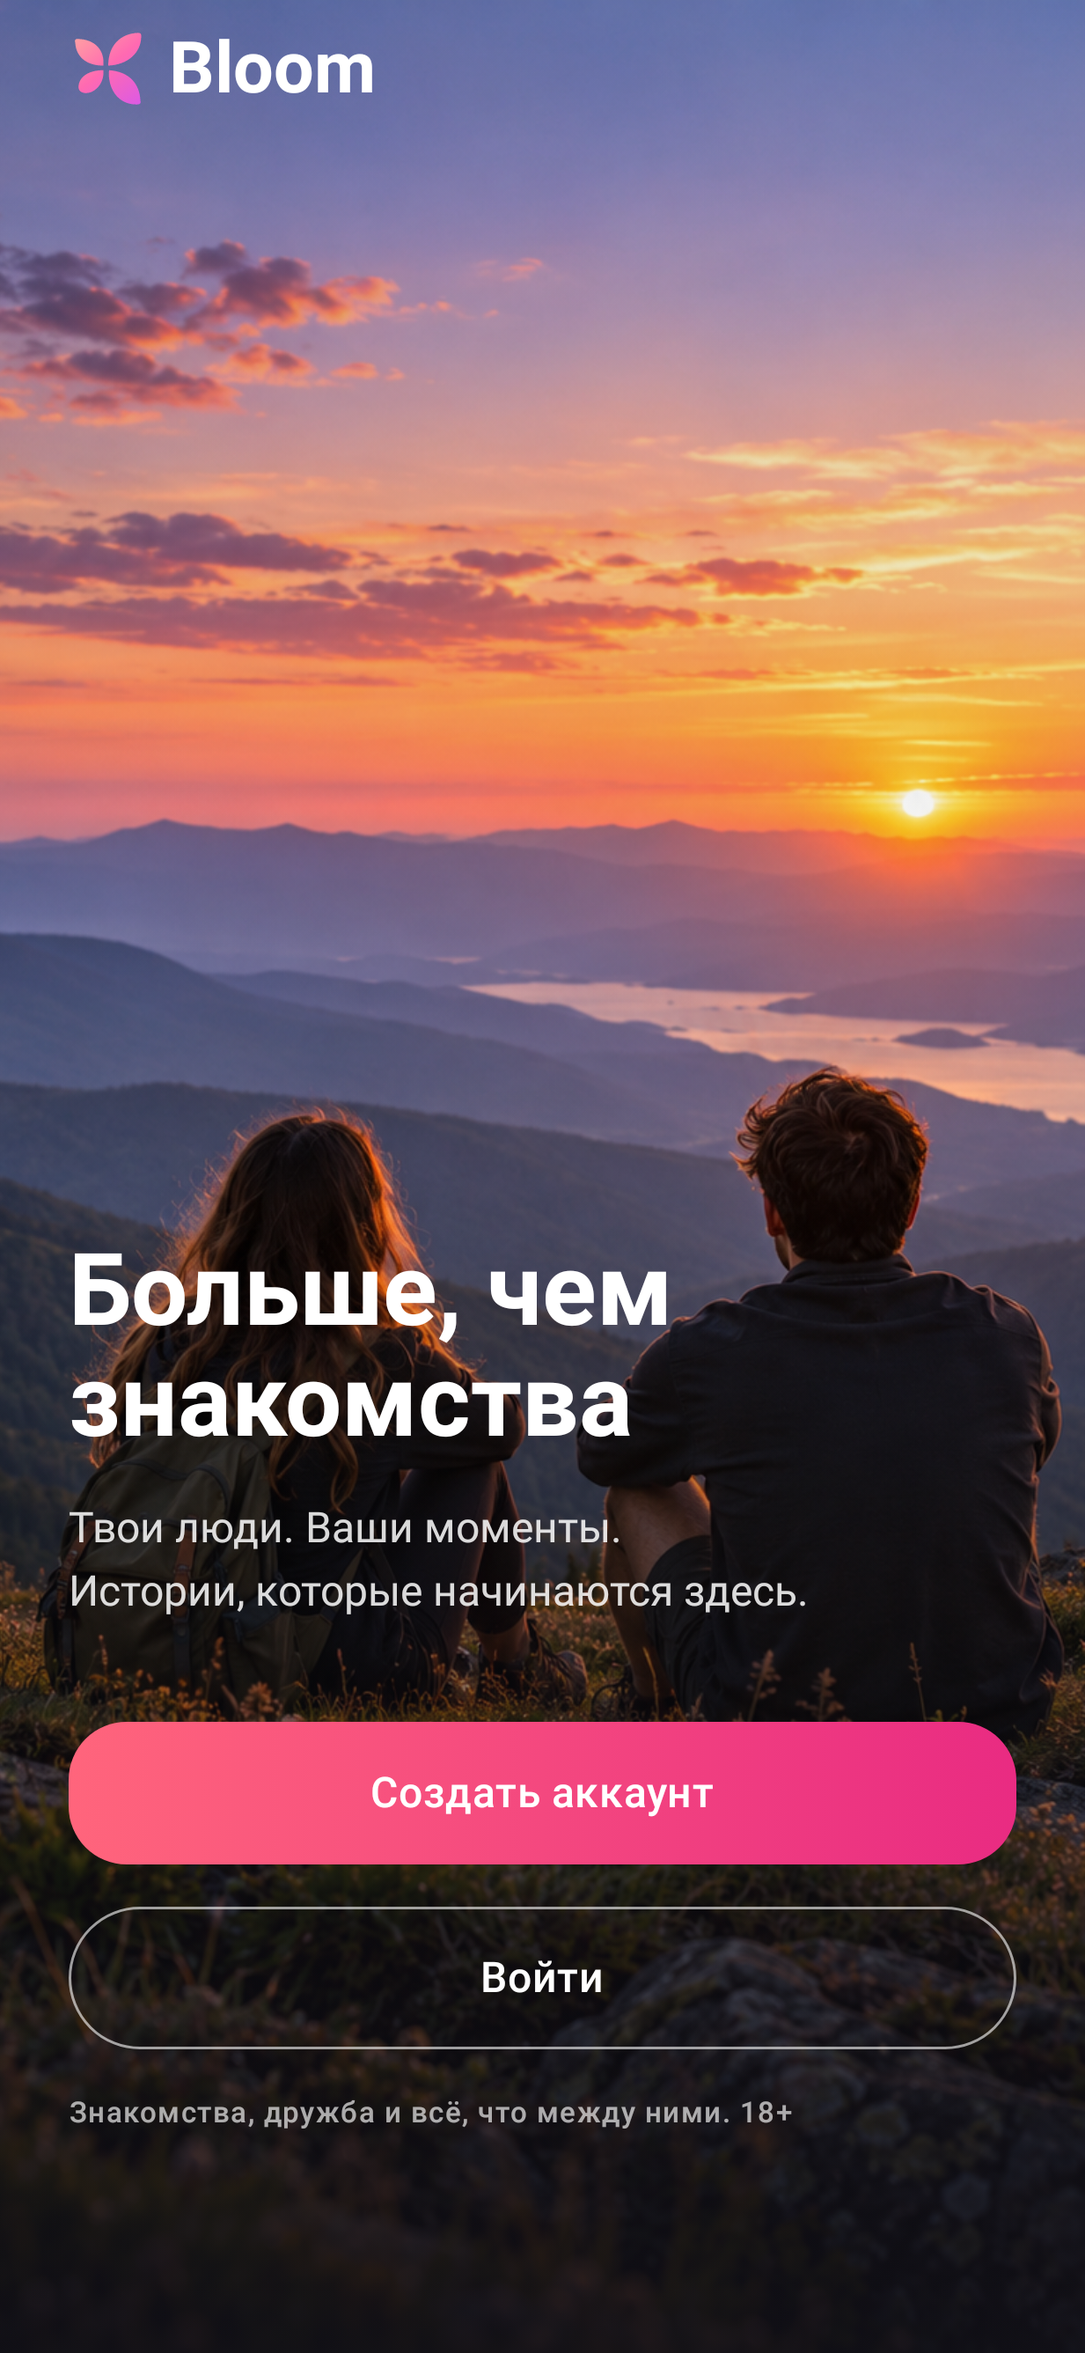
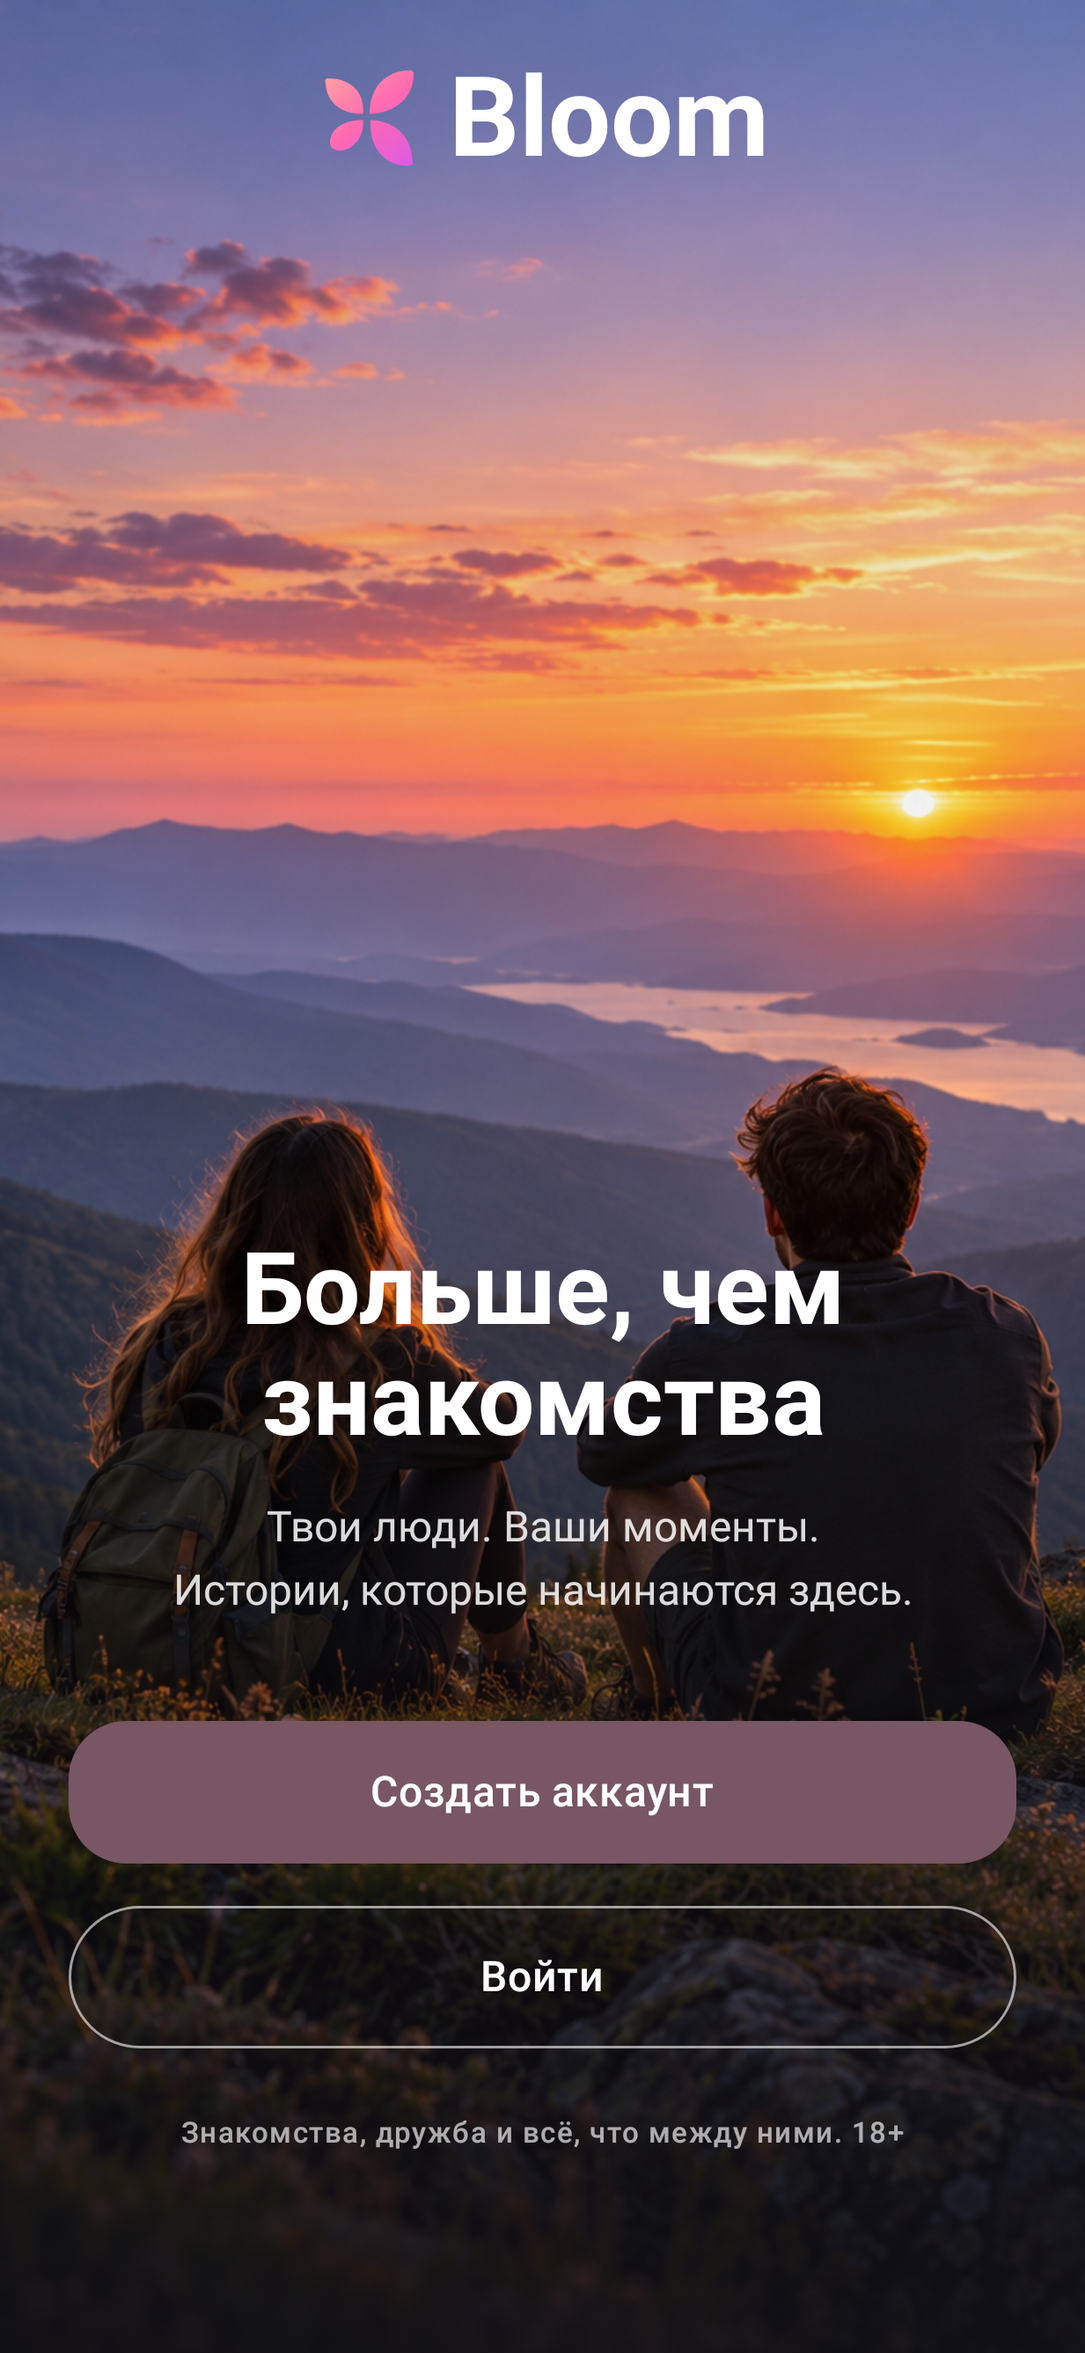
fix

diff --git a/server/chat/tools/test_client.html b/server/chat/tools/test_client.html
@@ -175,9 +175,11 @@
                 if (res.ok) {
                     const rooms = await res.json();
                     const list = document.getElementById("roomsList");
-                    list.innerHTML = "";
+                    list.replaceChildren();
                     if (!rooms || rooms.length === 0) {
-                        list.innerHTML = "<li>Нет чатов</li>";
+                        const empty = document.createElement("li");
+                        empty.textContent = "Нет чатов";
+                        list.appendChild(empty);
                         return;
                     }
                     rooms.forEach(room => {
@@ -201,7 +203,7 @@
             if (ws) { ws.close(); } 
             
             document.getElementById("chatTitle").innerText = `Чат с User (ID: ${otherUserId.substring(0,8)}...)`;
-            document.getElementById("chat").innerHTML = ""; 
+            document.getElementById("chat").replaceChildren();
             
             try {
                 // Подключаемся к вебсокету, передавая реальный токен!
@@ -282,7 +284,11 @@
                 previewDiv.innerText = "";
                 return;
             }
-            previewDiv.innerHTML = `Прикреплено файлов: <b>${uploadedFiles.length}</b>. <button onclick="clearAttachments()">Удалить всё</button>`;
+            previewDiv.textContent = `Прикреплено файлов: ${uploadedFiles.length}. `;
+            const clear = document.createElement("button");
+            clear.textContent = "Удалить всё";
+            clear.onclick = clearAttachments;
+            previewDiv.appendChild(clear);
         }
 
         function clearAttachments() {
@@ -305,22 +311,82 @@
             clearAttachments(); 
         }
 
+        function safeMediaUrl(value) {
+            if (typeof value !== "string") return null;
+            try {
+                const url = new URL(value, window.location.origin);
+                if (url.origin !== window.location.origin || !["http:", "https:"].includes(url.protocol)
+                    || url.username || url.password || url.search || url.hash
+                    || !/^\/api\/v1\/media\/[0-9a-f]{8}-[0-9a-f]{4}-[0-9a-f]{4}-[0-9a-f]{4}-[0-9a-f]{12}$/i.test(url.pathname)) return null;
+                return url.href;
+            } catch (_) { return null; }
+        }
+
+        async function downloadMedia(url, button) {
+            // Never navigate to unverified Media content: HTML/SVG may contain scripts.
+            const safeUrl = safeMediaUrl(url);
+            if (!safeUrl) return;
+            button.disabled = true;
+            try {
+                const response = await fetch(safeUrl, {
+                    headers: { Authorization: "Bearer " + accessToken },
+                    redirect: "error",
+                    credentials: "omit",
+                    signal: AbortSignal.timeout(30000)
+                });
+                if (!response.ok) throw new Error("Не удалось скачать файл");
+                const reader = response.body.getReader();
+                const chunks = [];
+                let size = 0;
+                try {
+                    while (true) {
+                        const { done, value } = await reader.read();
+                        if (done) break;
+                        size += value.byteLength;
+                        if (size > 10 * 1024 * 1024) throw new Error("Файл слишком большой");
+                        chunks.push(value);
+                    }
+                } finally { await reader.cancel(); }
+                const blob = new Blob(chunks, { type: "application/octet-stream" });
+                const blobUrl = URL.createObjectURL(blob);
+                const link = document.createElement("a");
+                link.href = blobUrl;
+                link.download = "bloom-attachment.bin";
+                document.body.appendChild(link);
+                link.click();
+                link.remove();
+                setTimeout(() => URL.revokeObjectURL(blobUrl), 60000);
+            } catch (_) {
+                alert("Не удалось скачать файл. Проверь доступ и подключение.");
+            } finally { button.disabled = false; }
+        }
+
         function printMsg(sender, text, className, attachments) {
             const chatDiv = document.getElementById("chat");
             const div = document.createElement("div");
-            div.className = "message " + className;
+            div.className = className === "system" ? "message system" : "message";
+            const author = document.createElement("b");
+            author.textContent = `${sender}: `;
+            div.appendChild(author);
+            div.appendChild(document.createTextNode(typeof text === "string" ? text : ""));
             
-            let htmlContent = `<b>${sender}:</b> ${text || ""}`;
-            
-            if (attachments && attachments.length > 0) {
-                htmlContent += `<br><br><b>Прикреплённые файлы:</b><ul style="margin: 5px 0; padding-left: 20px;">`;
-                attachments.forEach(url => {
-                    htmlContent += `<li><a href="${url}" target="_blank">Открыть медиа</a></li>`;
+            if (Array.isArray(attachments) && attachments.length > 0) {
+                const list = document.createElement("ul");
+                attachments.forEach(value => {
+                    const item = document.createElement("li");
+                    const url = safeMediaUrl(value);
+                    if (url) {
+                        const button = document.createElement("button");
+                        button.textContent = "Скачать файл (без предпросмотра)";
+                        button.onclick = () => downloadMedia(url, button);
+                        item.appendChild(button);
+                    } else {
+                        item.textContent = "Недопустимая ссылка на вложение";
+                    }
+                    list.appendChild(item);
                 });
-                htmlContent += `</ul>`;
+                div.appendChild(list);
             }
-            
-            div.innerHTML = htmlContent;
             chatDiv.appendChild(div);
             chatDiv.scrollTop = chatDiv.scrollHeight;
         }

diff --git a/android/app/src/main/java/app/bloom/android/feature/auth/WelcomeContent.kt b/android/app/src/main/java/app/bloom/android/feature/auth/WelcomeContent.kt
@@ -18,6 +18,7 @@ import androidx.compose.ui.layout.ContentScale
 import androidx.compose.ui.platform.LocalView
 import androidx.compose.ui.res.painterResource
 import androidx.compose.ui.text.font.FontWeight
+import androidx.compose.ui.text.style.TextAlign
 import androidx.compose.ui.unit.dp
 import androidx.compose.ui.unit.sp
 import app.bloom.android.R
@@ -58,24 +59,27 @@ fun WelcomeContent(register: () -> Unit = {}, login: () -> Unit = {}, serverSett
                 )
         )
         Column(Modifier.fillMaxSize().safeDrawingPadding().padding(horizontal = 26.dp)) {
-            Row(Modifier.fillMaxWidth().padding(top = 10.dp), verticalAlignment = Alignment.CenterVertically) {
-                BloomMark(Modifier.size(30.dp))
-                Text(
-                    "Bloom",
-                    Modifier.weight(1f).padding(start = 8.dp),
-                    color = Color.White,
-                    fontSize = 27.sp,
-                    fontWeight = FontWeight.Bold,
-                )
+            Box(Modifier.fillMaxWidth().padding(top = 20.dp)) {
+                Row(Modifier.align(Alignment.Center), verticalAlignment = Alignment.CenterVertically) {
+                    BloomMark(Modifier.size(40.dp))
+                    Text(
+                        "Bloom",
+                        Modifier.padding(start = 10.dp),
+                        color = Color.White,
+                        fontSize = 42.sp,
+                        fontWeight = FontWeight.Bold,
+                    )
+                }
                 if (serverSettings != null)
-                    IconButton(onClick = serverSettings) {
+                    IconButton(onClick = serverSettings, modifier = Modifier.align(Alignment.CenterEnd)) {
                         Icon(Icons.Outlined.Settings, "Адрес сервера", tint = Color.White)
                     }
             }
             Spacer(Modifier.weight(1f))
             Column(
-                Modifier.weight(1f, fill = false).verticalScroll(rememberScrollState()).padding(bottom = 20.dp),
+                Modifier.weight(1f, fill = false).verticalScroll(rememberScrollState()).padding(bottom = 24.dp),
                 verticalArrangement = Arrangement.spacedBy(16.dp),
+                horizontalAlignment = Alignment.CenterHorizontally,
             ) {
                 Text(
                     "Больше, чем\nзнакомства",
@@ -83,11 +87,13 @@ fun WelcomeContent(register: () -> Unit = {}, login: () -> Unit = {}, serverSett
                     fontSize = 38.sp,
                     lineHeight = 42.sp,
                     fontWeight = FontWeight.Bold,
+                    textAlign = TextAlign.Center,
                 )
                 Text(
                     "Твои люди. Ваши моменты.\nИстории, которые начинаются здесь.",
                     color = Color.White.copy(alpha = 0.85f),
                     style = MaterialTheme.typography.bodyLarge,
+                    textAlign = TextAlign.Center,
                 )
                 Spacer(Modifier.height(8.dp))
                 BloomButton("Создать аккаунт", register)
@@ -99,12 +105,14 @@ fun WelcomeContent(register: () -> Unit = {}, login: () -> Unit = {}, serverSett
                 ) {
                     Text("Войти", style = MaterialTheme.typography.titleMedium)
                 }
-                Text(
-                    "Знакомства, дружба и всё, что между ними. 18+",
-                    color = Color.White.copy(alpha = 0.65f),
-                    style = MaterialTheme.typography.labelSmall,
-                )
             }
+            Text(
+                "Знакомства, дружба и всё, что между ними. 18+",
+                modifier = Modifier.fillMaxWidth().padding(bottom = 12.dp),
+                color = Color.White.copy(alpha = 0.65f),
+                style = MaterialTheme.typography.labelSmall,
+                textAlign = TextAlign.Center,
+            )
         }
     }
 }

diff --git a/server/identity/src/test/java/app/bloom/identity/security/RequestLimitsTest.java b/server/identity/src/test/java/app/bloom/identity/security/RequestLimitsTest.java
@@ -1,0 +1,60 @@
+package app.bloom.identity.security;
+
+import static org.assertj.core.api.Assertions.assertThat;
+import static org.mockito.Mockito.mock;
+import static org.mockito.Mockito.verifyNoInteractions;
+
+import jakarta.servlet.http.HttpServletRequest;
+import java.nio.charset.StandardCharsets;
+import java.util.concurrent.atomic.AtomicBoolean;
+import org.junit.jupiter.api.Test;
+import org.springframework.mock.web.MockHttpServletRequest;
+import org.springframework.mock.web.MockHttpServletResponse;
+import org.springframework.security.core.context.SecurityContextHolder;
+
+class RequestLimitsTest {
+    private final AccessValidator validator = mock(AccessValidator.class);
+    private final JwtAuthenticationFilter filter = new JwtAuthenticationFilter(
+            validator, mock(LoginProtection.class), "test-service-token-at-least-32-characters");
+
+    @Test
+    void rejectsOversizedBodyEvenWithoutContentLength() throws Exception {
+        var request = new MockHttpServletRequest("POST", "/auth/login") {
+            @Override public long getContentLengthLong() { return -1; }
+            @Override public int getContentLength() { return -1; }
+        };
+        request.setContent(new byte[16385]);
+        var response = new MockHttpServletResponse();
+        var reachedController = new AtomicBoolean();
+        filter.doFilter(request, response, (req, res) -> reachedController.set(true));
+        assertThat(response.getStatus()).isEqualTo(413);
+        assertThat(reachedController).isFalse();
+    }
+
+    @Test
+    void preservesAcceptedJsonForTheController() throws Exception {
+        byte[] body = "{\"phone\":\"+79000000000\"}".getBytes(StandardCharsets.UTF_8);
+        var request = new MockHttpServletRequest("POST", "/auth/login");
+        request.setContent(body);
+        var reachedController = new AtomicBoolean();
+        filter.doFilter(request, new MockHttpServletResponse(), (req, res) -> {
+            assertThat(((HttpServletRequest) req).getInputStream().readAllBytes()).isEqualTo(body);
+            reachedController.set(true);
+        });
+        assertThat(reachedController).isTrue();
+    }
+
+    @Test
+    void rejectsOversizedBearerBeforeCryptographicValidation() throws Exception {
+        var request = new MockHttpServletRequest("GET", "/auth/me");
+        request.addHeader("Authorization", "Bearer " + "a".repeat(4097));
+        var response = new MockHttpServletResponse();
+        try {
+            filter.doFilter(request, response, (req, res) -> { throw new AssertionError("Unexpected dispatch"); });
+            assertThat(response.getStatus()).isEqualTo(401);
+            verifyNoInteractions(validator);
+        } finally {
+            SecurityContextHolder.clearContext();
+        }
+    }
+}

diff --git a/server/identity/src/main/java/app/bloom/identity/security/JwtAuthenticationFilter.java b/server/identity/src/main/java/app/bloom/identity/security/JwtAuthenticationFilter.java
@@ -38,10 +38,14 @@ public class JwtAuthenticationFilter extends OncePerRequestFilter {
     protected void doFilterInternal(HttpServletRequest request, HttpServletResponse response, FilterChain chain)
             throws ServletException, IOException {
         response.setHeader("Cache-Control", "no-store");
+        if (request.getContentLengthLong() > 16384) {
+            response.sendError(413);
+            return;
+        }
         try {
             if (request.getRequestURI().startsWith("/internal/")) {
                 String supplied = request.getHeader("X-Internal-Token");
-                if (supplied == null || !MessageDigest.isEqual(serviceToken, supplied.getBytes(StandardCharsets.UTF_8))) {
+                if (supplied == null || supplied.length() > 1024 || !MessageDigest.isEqual(serviceToken, supplied.getBytes(StandardCharsets.UTF_8))) {
                     response.sendError(401);
                     return;
                 }
@@ -52,7 +56,7 @@ public class JwtAuthenticationFilter extends OncePerRequestFilter {
                 }
                 String header = request.getHeader("Authorization");
                 if (header != null) {
-                    if (!header.startsWith("Bearer ")) {
+                    if (!header.startsWith("Bearer ") || header.length() > 4103) {
                         throw new AuthenticationException();
                     }
                     authenticate(validator.validate(header.substring(7)), "ROLE_USER");
@@ -68,7 +72,16 @@ public class JwtAuthenticationFilter extends OncePerRequestFilter {
             response.sendError(exception.getStatusCode().value());
             return;
         }
-        chain.doFilter(request, response);
+        if (List.of("POST", "PUT", "PATCH").contains(request.getMethod())) {
+            byte[] body = request.getInputStream().readNBytes(16385);
+            if (body.length > 16384) {
+                response.sendError(413);
+                return;
+            }
+            chain.doFilter(new BoundedJsonRequest(request, body), response);
+        } else {
+            chain.doFilter(request, response);
+        }
     }
 
     private void authenticate(Object principal, String authority) {

diff --git a/server/identity/src/main/java/app/bloom/identity/security/BoundedJsonRequest.java b/server/identity/src/main/java/app/bloom/identity/security/BoundedJsonRequest.java
@@ -1,0 +1,63 @@
+package app.bloom.identity.security;
+
+import jakarta.servlet.ReadListener;
+import jakarta.servlet.ServletInputStream;
+import jakarta.servlet.http.HttpServletRequest;
+import jakarta.servlet.http.HttpServletRequestWrapper;
+import java.io.BufferedReader;
+import java.io.ByteArrayInputStream;
+import java.io.IOException;
+import java.io.InputStreamReader;
+import java.nio.charset.StandardCharsets;
+
+final class BoundedJsonRequest extends HttpServletRequestWrapper {
+    private final byte[] body;
+
+    BoundedJsonRequest(HttpServletRequest request, byte[] body) {
+        super(request);
+        this.body = body;
+    }
+
+    @Override
+    public ServletInputStream getInputStream() {
+        var source = new ByteArrayInputStream(body);
+        return new ServletInputStream() {
+            @Override
+            public int read() {
+                return source.read();
+            }
+
+            @Override
+            public int read(byte[] bytes, int offset, int length) {
+                return source.read(bytes, offset, length);
+            }
+
+            @Override
+            public boolean isFinished() {
+                return source.available() == 0;
+            }
+
+            @Override
+            public boolean isReady() {
+                return true;
+            }
+
+            @Override
+            public void setReadListener(ReadListener listener) {
+                try {
+                    listener.onDataAvailable();
+                    if (isFinished()) {
+                        listener.onAllDataRead();
+                    }
+                } catch (IOException exception) {
+                    listener.onError(exception);
+                }
+            }
+        };
+    }
+
+    @Override
+    public BufferedReader getReader() {
+        return new BufferedReader(new InputStreamReader(getInputStream(), StandardCharsets.UTF_8));
+    }
+}
